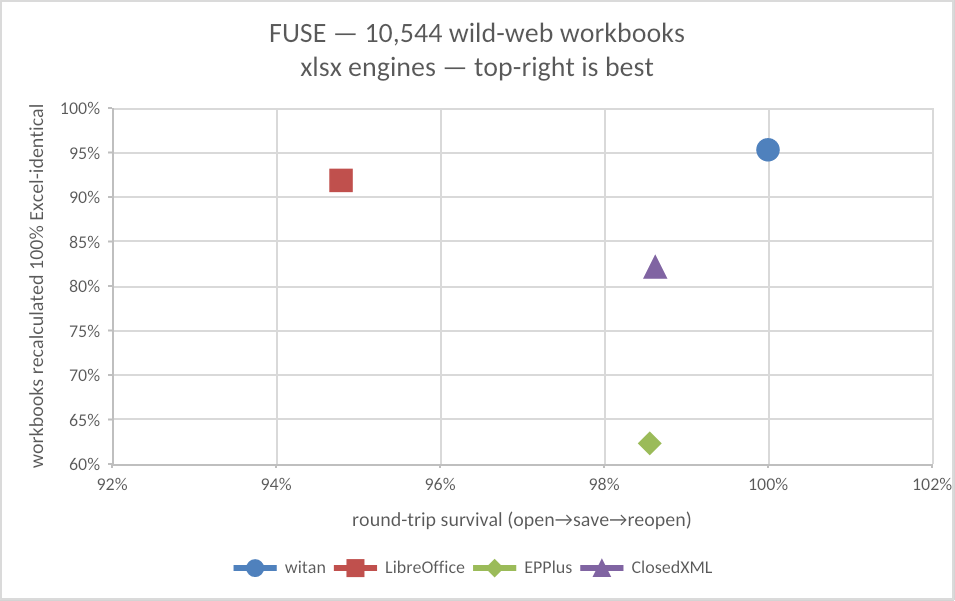
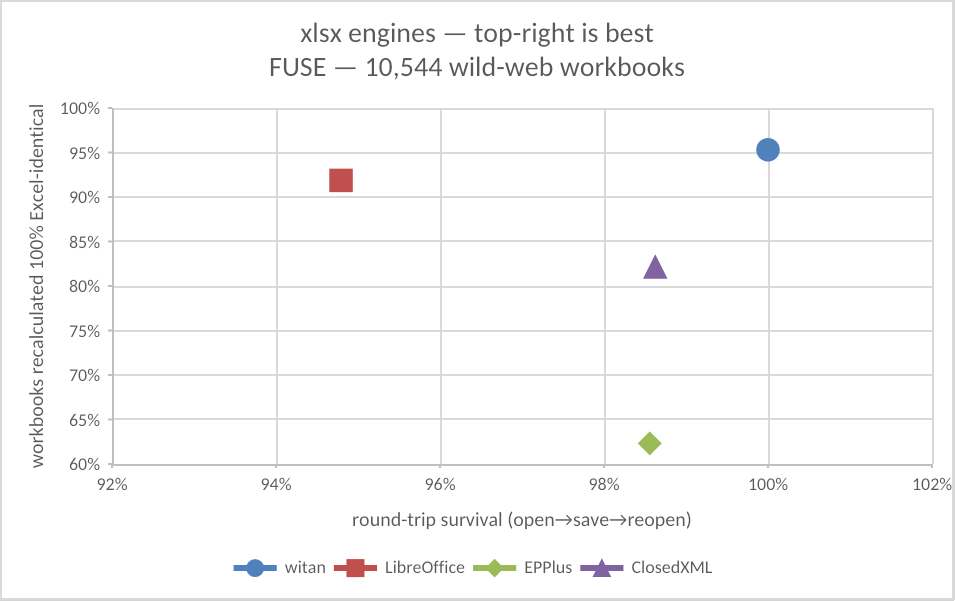
Embed witan-rendered result charts in README

Changed region(s): [[0.2733, 0.03, 0.7288, 0.1498]]

diff --git a/harness/make_charts.py b/harness/make_charts.py
@@ -90,7 +90,7 @@ def main() -> int:
             "name": f"{sheet} results",
             "position": {"from": {"cell": "E2"}, "to": {"cell": "N22"}},
             "groups": [{"type": "scatter", "scatterStyle": "marker", "series": series}],
-            "title": {"text": f"{title}\nxlsx engines — top-right is best"},
+            "title": {"text": f"xlsx engines — top-right is best\n{title}"},
             "roundedCorners": False,
             "legend": {"position": "bottom"},
             "axes": {

diff --git a/README.md b/README.md
@@ -16,6 +16,8 @@ on today (modern, formula-heavy forum workbooks). Last full run: 2026-06-12 (wit
 
 **FUSE** — 10,544 workbooks crawled from the open web:
 
+![FUSE: round-trip survival vs Excel-identical recalculation, per xlsx engine](charts/fuse.png)
+
 <!-- table:results-fuse:start -->
 | library | opens without error | survives open→save→reopen | workbooks recalculated 100% Excel-identical | formula cells matching Excel (of 5,671,240) |
 |---|---|---|---|---|
@@ -27,6 +29,8 @@ on today (modern, formula-heavy forum workbooks). Last full run: 2026-06-12 (wit
 <!-- table:results-fuse:end -->
 
 **SpreadsheetBench** — 5,426 workbooks from real Excel forum questions:
+
+![SpreadsheetBench: round-trip survival vs Excel-identical recalculation, per xlsx engine](charts/sb.png)
 
 <!-- table:results-sb:start -->
 | library | opens without error | survives open→save→reopen | workbooks recalculated 100% Excel-identical | formula cells matching Excel (of 1,163,936) |
@@ -42,6 +46,7 @@ Full tables with denominators and per-library error signatures:
 [results-sb/REPORT.md](results-sb/REPORT.md) and
 [results-fuse/REPORT.md](results-fuse/REPORT.md). Per-file receipts:
 `results*/<lib>.jsonl` and `results*/truth-compare/<lib>.jsonl`.
+The charts are authored and rendered by witan itself ([harness/make_charts.py](harness/make_charts.py)).
 
 ## What is measured
 